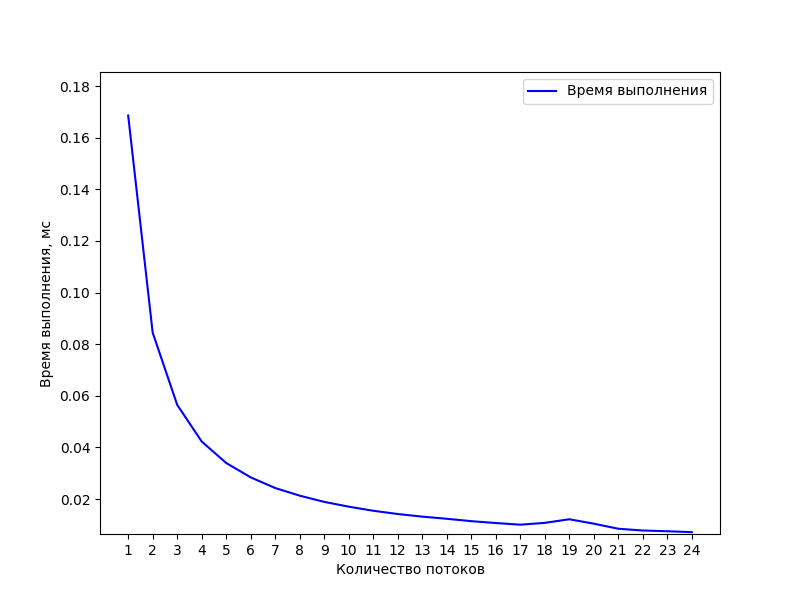
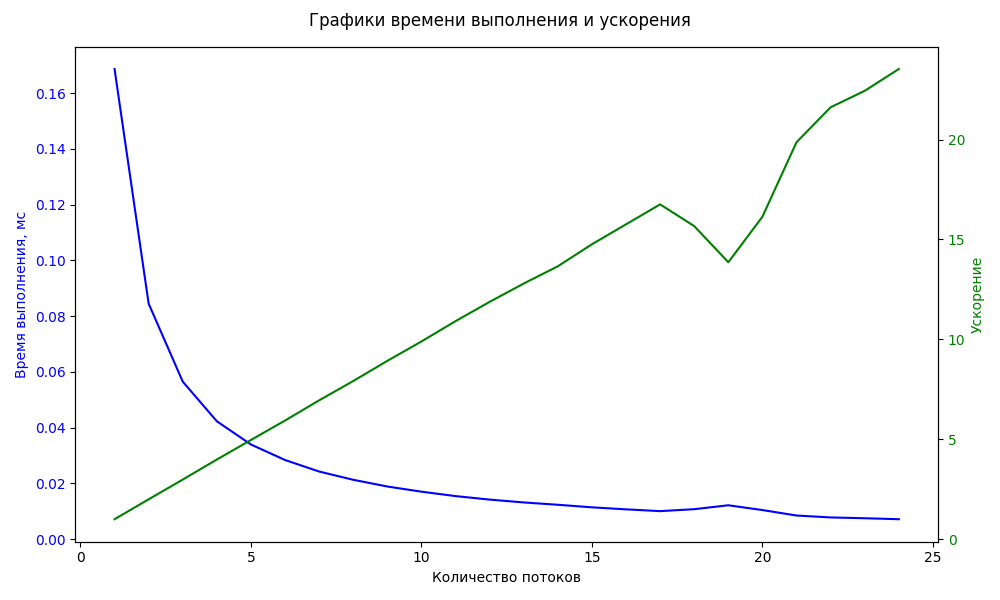
правки по графикам

diff --git a/graphics/graph.py b/graphics/graph.py
@@ -1,29 +1,36 @@
 import matplotlib.pyplot as plt
-import pandas
+import pandas as pd
 
 # Чтение данных
-data = pandas.read_csv("output5.csv")
+data = pd.read_csv("output1.csv")
 length = data.shape[0]
 
-# Получение данных для графика
-t = data[0:0 + length]["T"]
-duration = data[0:0 + length]["Duration"]
-duration_float = [float(i) for i in duration]
+# Получение данных для графиков
+t = data["T"]
+duration = data["Duration"].astype(float)
+speedup = data["Speedup"].astype(float)
 
 # Настройка размеров фигуры
-plt.figure(figsize=(8, 6))
+plt.figure(figsize=(10, 6))
 
-# Построение графика
-plt.plot(t, duration_float, label="Время выполнения", c="blue")
+# Построение графиков на одном графике
+fig, ax1 = plt.subplots(figsize=(10, 6))
 
-# Автоматическая настройка высоты графика по амплитуде
-y_min = min(duration_float) * 0.9  # Добавляем небольшой отступ
-y_max = max(duration_float) * 1.1  # Добавляем небольшой отступ
-plt.ylim(y_min, y_max)
+# График времени выполнения
+color = 'blue'
+ax1.set_xlabel('Количество потоков')
+ax1.set_ylabel('Время выполнения, мс', color=color)
+ax1.plot(t, duration, label="Время выполнения", color=color)
+ax1.tick_params(axis='y', labelcolor=color)
 
-# Настройка подписей и легенды
-plt.xlabel('Количество потоков')
-plt.ylabel('Время выполнения, мс')
-plt.xticks(t)
-plt.legend()
+# Создание второго графика с другой осью Y
+ax2 = ax1.twinx()  # Дублирование оси X
+color = 'green'
+ax2.set_ylabel('Ускорение', color=color)
+ax2.plot(t, speedup, label="Ускорение", color=color)
+ax2.tick_params(axis='y', labelcolor=color)
+
+# Добавление легенды и заголовка
+fig.suptitle("Графики времени выполнения и ускорения")
+plt.tight_layout()
 plt.show()
